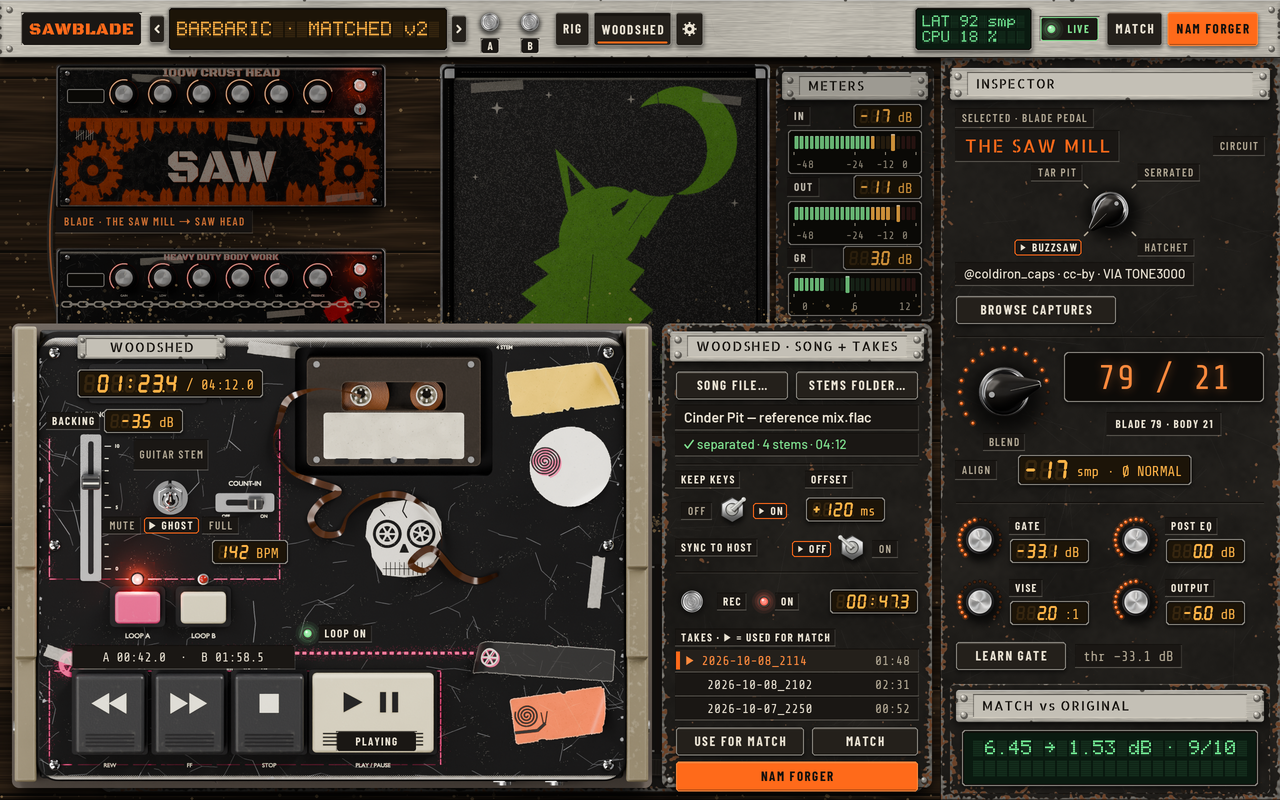
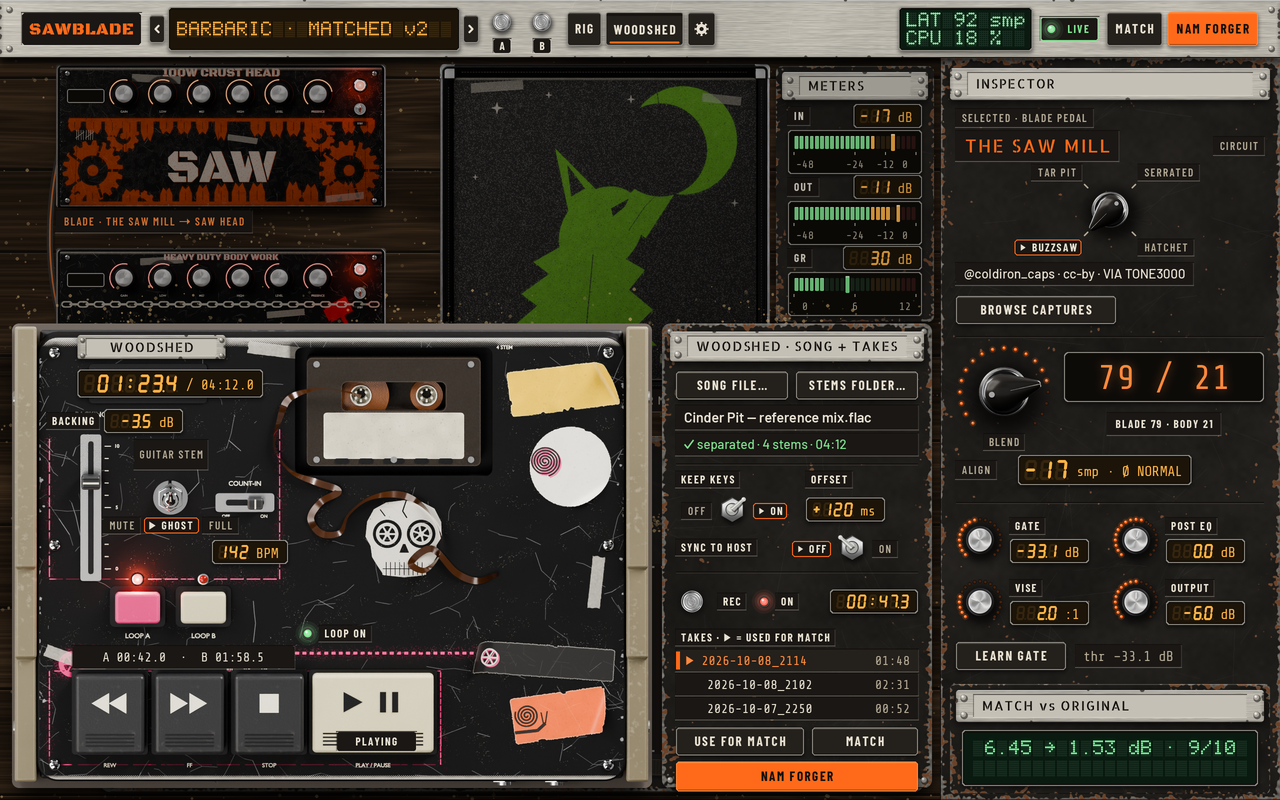
mockups: v3 review fixes and a permanent overpaint check
- overpaint check: every logged string's pixels are snapshotted when drawn and compared at finish(); render_all exits 1 and names the string above 12/255 (dropped backdrop scenery exempt); all four sets clean, v2 PNGs unchanged
- 08 v3 block cards: lamp + ON / OFF word, toggle labelled ACTIVE / BYPASS, nothing paints over the toggle words
- top bar v3: LAT / CPU 14 px; the preset window is wide enough for 23 characters, 27 in the A / B state (shown in full); a clipped name shows both scroll markers (◀ ▶), 02 shows a long B name
- 09 toast 14 px; 02 v3 zoom crops end before RIG / start at the gear; README updated

Claude-Session: https://claude.ai/code/session_01Xtcva4Boag1J55QcGzGRmV

Changed region(s): [[0.3438, 0.0, 0.5625, 0.0625], [0.6875, 0.0, 0.8125, 0.0625]]

diff --git a/design/render/workshop_style.py b/design/render/workshop_style.py
@@ -366,10 +366,35 @@ class Canvas:
         self.im = Image.new('RGB', (w * S, h * S), rgb(fill))
         self.d = ImageDraw.Draw(self.im)
         self.log = []
+        self.snaps = []                  # (log entry, device box, pixels) taken when each logged string is drawn
+        self.overpaint = []              # filled by finish(): strings whose pixels changed after they were drawn
 
     # -- output --------------------------------------------------------------------------------------------------
+    def snap(self, entry, rect):
+        """Remember the pixels under a logged string's ink box (logical rect) right after it is drawn."""
+        x0, y0, x1, y1 = _dev(rect)
+        x0, y0 = max(x0 - 1, 0), max(y0 - 1, 0)
+        x1, y1 = min(x1 + 1, self.im.width), min(y1 + 1, self.im.height)
+        if x1 > x0 and y1 > y0:
+            self.snaps.append((entry, (x0, y0, x1, y1), np.asarray(self.im.crop((x0, y0, x1, y1))).copy()))
+
+    def check_overpaint(self, limit=12):
+        """Strings still in the log whose pixels changed by more than ``limit``/255 after they were drawn (something was painted
+        over them).  Strings dropped from the log (dimmed backdrop scenery) are exempt.  -> [(text, max delta, logical rect)]"""
+        live = {id(e) for e in self.log}
+        bad = []
+        for entry, box, arr in self.snaps:
+            if id(entry) not in live:
+                continue
+            now = np.asarray(self.im.crop(box)).astype(np.int16)
+            d = int(np.abs(now - arr.astype(np.int16)).max())
+            if d > limit:
+                bad.append((entry['text'], d, tuple(round(v / S, 1) for v in box)))
+        return bad
+
     def finish(self):
-        """Downsample to the 1x page (LANCZOS), RGB."""
+        """Downsample to the 1x page (LANCZOS), RGB.  Also runs the overpaint check (``self.overpaint``)."""
+        self.overpaint = self.check_overpaint()
         return self.im.resize((self.w, self.h), Image.LANCZOS)
 
     def crop2x(self, rect):
@@ -710,9 +735,12 @@ def text(cv, xy, s, style='body', bg=None, fg=None, size=None, track=None, align
         cv.im.paste(Image.new('RGB', lay.size, col), (gb[0], gb[1]), lay)
         eff_bg = tuple(int(round(bgc[i] * (1 - glow) + col[i] * glow)) for i in range(3))
     _paint_items(cv.im, items, ox, base, dev_px, col, cap)
-    cv.log.append(dict(screen=cv.name, style=style, fg=fgname, fg_rgb=col, bg_rgb=eff_bg, px=px,
-                       bold=bool(st.get('bold')), text=s, ratio=contrast(col, eff_bg),
-                       ink=(ink[0] / S, ink[1] / S, ink[2] / S, ink[3] / S)))
+    entry = dict(screen=cv.name, style=style, fg=fgname, fg_rgb=col, bg_rgb=eff_bg, px=px,
+                 bold=bool(st.get('bold')), text=s, ratio=contrast(col, eff_bg),
+                 ink=(ink[0] / S, ink[1] / S, ink[2] / S, ink[3] / S))
+    cv.log.append(entry)
+    if s.strip():                                  # an empty label (icon-only button) has nothing to protect
+        cv.snap(entry, entry['ink'])
     return (ink[0] / S, ink[1] / S, ink[2] / S, ink[3] / S)
 
 
@@ -1707,8 +1735,10 @@ def lcd(cv, xy, value, unit='', digits=None, h=26, align='l', w=None, tone='ambe
     pos = (int(round((dig_box[0] - 1) * S)), int(round((dig_box[1] - 1) * S)))
     cv.im.paste(Image.new('RGB', sz, PAL[lit_tok]), pos, gm)
     cv.im.paste(Image.new('RGB', sz, PAL[lit_tok]), pos, lm)
-    cv.log.append(dict(screen=cv.name, style='lcd', fg=lit_tok, fg_rgb=PAL[lit_tok], bg_rgb=bgc,
-                       px=h, bold=False, text=value, ratio=contrast(PAL[lit_tok], bgc), ink=dig_box))
+    entry = dict(screen=cv.name, style='lcd', fg=lit_tok, fg_rgb=PAL[lit_tok], bg_rgb=bgc,
+                 px=h, bold=False, text=value, ratio=contrast(PAL[lit_tok], bgc), ink=dig_box)
+    cv.log.append(entry)
+    cv.snap(entry, dig_box)
     if unit:
         ux = dig_box[2] + 4
         text(cv, (ux, xy[1] + 1), unit, 'lcd_unit', bg=(ux - 1, rect[1] + 3, rect[2] - 4, rect[3] - 3), fg=lit_tok if v3 else None)
@@ -2162,10 +2192,11 @@ def _housing(cv, rect, glass_tok):
     cv.blend((rect[0] + 3, rect[1] + 2, rect[2] - 3, rect[1] + 3), 'bench_dark', 0.6)       # recessed: shadow under the top lip
 
 
-def dm_display(cv, rect, lines, h=14, tone='amber', align='l', pad=6, row_gap=None, clip_marker=True):
+def dm_display(cv, rect, lines, h=14, tone='amber', align='l', pad=6, row_gap=None, clip_marker=True, scroll=None):
     """Backlit dot-matrix display: recessed bezel, flat lit glass, a ghost (unlit) 5x7 matrix over the whole inner area and the
     text as lit dots with a faint bloom.  ``lines`` = str or list of str (one row each, glyph height ``h`` px; values and
-    names >= 14, status lines >= 11).  A line longer than the window is clipped and ends in a ▶ scroll marker.  ``align`` l / c / r
+    names >= 14, status lines >= 11).  A line longer than the window is shown mid-scroll (``scroll`` = first visible character,
+    default 1) between ◀ and ▶ scroll markers; a line that fits is never clipped.  ``align`` l / c / r
     by whole cells.  The ghost is <= 1.25:1 against the glass; every line is logged with the ghost / bloom colour as its
     background (pessimistic).  Returns the glass rect."""
     if isinstance(lines, str):
@@ -2208,7 +2239,8 @@ def dm_display(cv, rect, lines, h=14, tone='amber', align='l', pad=6, row_gap=No
     for r, line in enumerate(lines[:nrows_draw]):
         txt = line
         if len(txt) > cols:
-            txt = txt[:cols - 1] + ('▶' if clip_marker else '')
+            st0 = 1 if scroll is None else scroll
+            txt = '◀' + txt[st0:st0 + cols - 2] + '▶'
         off = {'l': 0, 'c': (cols - len(txt)) // 2, 'r': cols - len(txt)}[align]
         for ci, ch in enumerate(txt):
             g = dm_glyph(ch)
@@ -2228,8 +2260,10 @@ def dm_display(cv, rect, lines, h=14, tone='amber', align='l', pad=6, row_gap=No
     cv.im.paste(Image.new('RGB', (wd, hd), lit), (x0d, y0d), lit_s)
     eff = tuple(int(round(ghost[q] * (1 - BLOOM) + lit[q] * BLOOM)) for q in range(3))
     for txt, ink in ink_rows:
-        cv.log.append(dict(screen=cv.name, style='dotmatrix', fg=t['lit'], fg_rgb=lit, bg_rgb=eff, px=h, bold=False, text=txt,
-                           ratio=contrast(lit, eff), ink=ink))
+        entry = dict(screen=cv.name, style='dotmatrix', fg=t['lit'], fg_rgb=lit, bg_rgb=eff, px=h, bold=False, text=txt,
+                     ratio=contrast(lit, eff), ink=ink)
+        cv.log.append(entry)
+        cv.snap(entry, ink)
     return rect
 
 
@@ -2381,7 +2415,7 @@ def top_bar_v3(cv, st, y=0, width=PAGE_W):
     button(cv, b0, '', 'secondary')
     glyph_icon(cv, 'chev_l', (b0[0] + b0[2]) / 2.0, cy, 9, 'bone')
     x = b0[2] + 3
-    pw = 280
+    pw = 340 if st.ab else 292                 # the A / B state shows 'A ▶ GRAVE DIRT · MATCHED v2' in full
     pr = (x, cy - 22, x + pw, cy + 22)
     if st.ab:
         a_act = st.ab.get('active', 'a') == 'a'
@@ -2444,8 +2478,8 @@ def top_bar_v3(cv, st, y=0, width=PAGE_W):
     text(cv, (mr[0] + 27, cy), word, 'label_b', bg=(mr[0] + 25, mr[1] + 3, mr[2] - 3, mr[3] - 3), fg='ok' if st.mode == 'LIVE' else 'body')
     out['mode'] = mr
     x = mr[0] - 8
-    sr = (x - 118, cy - 22, x, cy + 22)
-    dm_display(cv, sr, ['LAT %d smp' % st.lat, 'CPU %d %%' % st.cpu], h=11, tone='green', pad=4, row_gap=1.8)
+    sr = (x - 134, cy - 22, x, cy + 22)
+    dm_display(cv, sr, ['LAT %d smp' % st.lat, 'CPU %d %%' % st.cpu], h=14, tone='green', pad=4, row_gap=1.0)
     out['status'] = sr
     x = sr[0] - 8
     # ---- state lamps (UNCAL / OUT OF TRUE) in one backlit block in the room between the clusters -------------------------

diff --git a/design/mockups/workshop/screens_panels.py b/design/mockups/workshop/screens_panels.py
@@ -83,7 +83,7 @@ def list_row(cv, rect, selected=False):
 # --------------------------------------------------------------------------------------------------------------------
 def screen_02_top_bar():
     cv = ws.new_screen('02_top_bar', sawdust_n=500)
-    ab = {'a': 'GRAVE DIRT · MATCHED v2', 'b': 'THRASH TIGHT', 'active': 'a'}
+    ab = {'a': 'GRAVE DIRT · MATCHED v2', 'b': 'THRASH TIGHT · DOWNTUNED TAKE 4' if ws.is_v3() else 'THRASH TIGHT', 'active': 'a'}
     states = [
         ('1 · DEFAULT', 'plain bar: preset selector, A / B, RIG, WOODSHED, settings, LAT / CPU, LIVE, MATCH, NAM FORGER',
          ws.TopBarState()),
@@ -107,15 +107,23 @@ def screen_02_top_bar():
     yz = 5 * pitch + 6
     yl = bars[1][0]
     yr = bars[4][0]
-    r1 = zoom2x(cv, (0, yl, 581, yl + 58), ((1280 - 1162) / 2.0, yz))
+    if ws.is_v3():
+        rg = bars[1][1]['rig']
+        xr = int(rg[2] + 8) if rg[2] + 8 <= 640 else int(rg[0] - 6)          # whole RIG button, or stop before it
+        gx0 = int(bars[4][1]['gear'][0] - 3)
+        note_l = 'brand, preset selector with A / B slot names (the B name clips between ◀ ▶), A / B footswitches (x 0-%d)' % xr
+        note_r = 'gear, LAT / CPU display, STUDIO lamp, MATCH 42 %%, NAM FORGER (x %d-1280)' % gx0
+    else:
+        xr, gx0 = 581, 665
+        note_l = 'brand, preset selector with A / B slot names, A / B footswitches, RIG (x 0-581)'
+        note_r = 'gear, LAT / CPU glass, STUDIO chip, MATCH 42 %, NAM FORGER (x 665-1280)'
+    r1 = zoom2x(cv, (0, yl, xr, yl + 58), ((1280 - 2 * xr) / 2.0, yz))
     c1 = ws.label_well(cv, (20, r1[3] + 14), 'ZOOM 2x · LEFT · STATE 2', 'label_b', fg='blade_hi', h=20, pad=8)
-    ws.label_well(cv, (c1[2] + 6, r1[3] + 14),
-                  'brand, preset selector with A / B slot names, A / B footswitches, RIG (x 0-581)', 'body_dim', h=20, pad=8)
+    ws.label_well(cv, (c1[2] + 6, r1[3] + 14), note_l, 'body_dim', h=20, pad=8)
     yz2 = r1[3] + 30
-    r2 = zoom2x(cv, (665, yr, 1280, yr + 58), ((1280 - 1230) / 2.0, yz2))
+    r2 = zoom2x(cv, (gx0, yr, 1280, yr + 58), ((1280 - 2 * (1280 - gx0)) / 2.0, yz2))
     c2 = ws.label_well(cv, (20, r2[3] + 14), 'ZOOM 2x · RIGHT · STATE 5', 'label_b', fg='blade_hi', h=20, pad=8)
-    ws.label_well(cv, (c2[2] + 6, r2[3] + 14),
-                  'gear, LAT / CPU glass, STUDIO chip, MATCH 42 %, NAM FORGER (x 665-1280)', 'body_dim', h=20, pad=8)
+    ws.label_well(cv, (c2[2] + 6, r2[3] + 14), note_r, 'body_dim', h=20, pad=8)
     return cv
 
 
@@ -511,7 +519,7 @@ def screen_09_notices():
     tb = (t[0] + 8, t[1] + 8, t[2] - 8, t[3] - 8)
     flat_box(cv, tb, 'well', 'ok', 3)
     if ws.is_v3():
-        ws.dm_display(cv, (tb[0] + 2, tb[1] + 2, tb[2] - 2, tb[3] - 2), ['Preset saved:', 'GRAVE DIRT · MATCHED v3'], h=11, tone='green', row_gap=1.6, pad=6)
+        ws.dm_display(cv, (tb[0] + 2, tb[1] + 2, tb[2] - 2, tb[3] - 2), ['Preset saved:', 'GRAVE DIRT · MATCHED v3'], h=14, tone='green', row_gap=1.6, pad=6)
     else:
         ws.glyph_icon(cv, 'check', tb[0] + 18, (tb[1] + tb[3]) / 2.0, 14, 'ok')
         ws.text(cv, (tb[0] + 34, (tb[1] + tb[3]) / 2.0), 'Preset saved: GRAVE DIRT · MATCHED v3', 'body', bg=tb)

diff --git a/design/mockups/workshop/render_all.py b/design/mockups/workshop/render_all.py
@@ -45,6 +45,9 @@ def load_registry():
     return dict(sorted(reg.items()))
 
 
+OVERPAINT = []          # (screen, string, delta, box): strings painted over after they were drawn (a failure)
+
+
 def render_screens(reg, only=None):
     """-> {name: (PIL image 1x, log list)}"""
     out = {}
@@ -53,6 +56,8 @@ def render_screens(reg, only=None):
             continue
         cv = fn()
         out[name] = (cv.finish(), cv.log)
+        for text_, delta, box in cv.overpaint:
+            OVERPAINT.append((name, text_, delta, box))
     return out
 
 
@@ -127,7 +132,12 @@ def main(argv=None):
     for look, wear, outdir in set_dirs(a.out, looks, wears):
         ws.set_wear(wear)
         ws.set_look(look)
+        del OVERPAINT[:]
         results = render_screens(reg, a.only)
+        for o in OVERPAINT:
+            print(f'[{look} {wear}] OVERPAINT FAIL {o[0]}: {o[1]!r} changed by {o[2]}/255 at {o[3]}')
+        if OVERPAINT:
+            rc |= 1
         lines, fails = contrast_table(results)
         tag = f'[{look} {wear}] '
         if a.contrast:

diff --git a/design/mockups/workshop/screens_tools.py b/design/mockups/workshop/screens_tools.py
@@ -603,9 +603,8 @@ def _block_card(cv, rect, title, key, lines, accent, status=None, bypassed=False
     y = by0 + (60 if v3 else 64)
     # BYPASS toggle row
     if ws.is_v3():
-        ws.state_led(cv, bx0 + 2, y + 14, not bypassed, 'amber' if bypassed else 'green', 'BYPASSED' if bypassed else 'ACTIVE', r=4.0)
-        ws.toggle(cv, bx0 + 176, y + 14, 1 if bypassed else 0, ['OFF', 'ON'], 26, key='tgb' + key)
-        label_well(cv, (bx0 + 96, y + 14), 'BYPASS', 'label', h=16, pad=5)
+        ws.state_led(cv, bx0 + 2, y + 14, not bypassed, 'amber' if bypassed else 'green', 'OFF' if bypassed else 'ON', r=4.0)
+        ws.toggle(cv, bx0 + 156, y + 14, 1 if bypassed else 0, ['ACTIVE', 'BYPASS'], 26, key='tgb' + key)
     else:
         label_well(cv, (bx0, y + 14), 'BYPASS', 'label_b', h=18, pad=5)
         ws.toggle(cv, bx0 + 108, y + 14, 1 if bypassed else 0, ['OFF', 'ON'], 26, key='tgb' + key)

diff --git a/design/mockups/workshop/README.md b/design/mockups/workshop/README.md
@@ -56,7 +56,7 @@ mismatching font is exit 77, never a fallback. Table in `docs/THIRD_PARTY.md`.
 
 AA needs 4.5:1 (3:1 for large text). Backdrop strings that stay visible behind an overlay are measured with their colours scaled by
 the dimming. Wear is texture only, so the strong sets have identical ratios to the subtle ones (same layouts), verified by running
-`--contrast` on each set (all four exit 0).
+`--contrast` on each set (all four exit 0). Every run also fails (exit 1) if any logged string's pixels change by more than 12/255 after it was drawn (the overpaint check); dropped backdrop scenery is exempt; all four sets are clean.
 
 ### v2 subtle
 
@@ -180,7 +180,7 @@ rows with a hex background below). Ghost vs glass is <= 1.25:1 (amber 1.23:1, gr
 | label | blade_hi | well | 7.61:1 ok | 4.5 | 11 | 4 | 00 01 09 |
 | label | body | well | 8.18:1 ok | 4.5 | 11 | 3 | 00 01 |
 | label | bone | well | 13.71:1 ok | 4.5 | 11 | 34 | 00 04 |
-| label | bone_dim | well | 7.67:1 ok | 4.5 | 11 | 109 | 00 01 02 03 04 05 06 07 08 |
+| label | bone_dim | well | 7.67:1 ok | 4.5 | 11 | 104 | 00 01 02 03 04 05 06 07 08 |
 | label | bone_dim | well_raised | 6.96:1 ok | 4.5 | 11 | 1 | 04 |
 | label | bone_mute | well | 5.81:1 ok | 4.5 | 11 | 2 | 00 04 |
 | label | lcd_amber | well | 10.02:1 ok | 4.5 | 11 | 1 | 00 |
@@ -226,7 +226,7 @@ rows with a hex background below). Ghost vs glass is <= 1.25:1 (amber 1.23:1, gr
 | section_mixed | ink | alu_well | 10.36:1 ok | 4.5 | 13 | 4 | 01 03 07 08 |
 | title | bone | well | 13.71:1 ok | 3.0 | 22 | 1 | 03 |
 
-1093 strings measured on 10 screens: all pass WCAG 2.x AA
+1088 strings measured on 10 screens: all pass WCAG 2.x AA
 
 ### v3 strong
 
